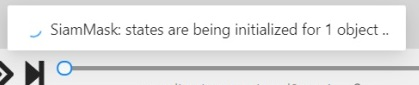
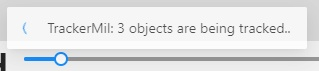
Update documentation. Update add OpenCV MIL tracker tool (#4299)
* update opencv-tools.md and ai-tools.md

* apply suggestions

diff --git a/site/content/en/docs/manual/advanced/opencv-tools.md b/site/content/en/docs/manual/advanced/opencv-tools.md
@@ -37,8 +37,8 @@ displayed as a red square which is tied to the cursor.
   Increasing action threshold will affect the performance.
   During the drawing process you can remove the last point by clicking on it with the left mouse button.
 
-- You can also create a boundary manually (like when 
-  [creating a polygon](/docs/manual/advanced/annotation-with-polygons/manual-drawing/)) by temporarily disabling 
+- You can also create a boundary manually (like when
+  [creating a polygon](/docs/manual/advanced/annotation-with-polygons/manual-drawing/)) by temporarily disabling
   the automatic line creation. To do that, switch blocking on by pressing `Ctrl`.
 
 - In the process of drawing, you can select the number of points in the polygon using the switch.
@@ -69,3 +69,30 @@ It is useful in images with backgrounds and foregrounds that are both bright or 
 
   ![](/images/image222.jpg)
 
+### TrackerMIL
+
+Trackers are used to automatically annotate an object on video.
+The TrackerMIL model is not bound to labels and can be used for any object.
+
+- Before you start, select the `OpenCV tools` on the controls sidebar and go to the `Trackers` tab.
+  Then select a `Label` and `Tracker` for the object and click `Track`. Then annotate the desired objects with the
+  bounding box in the first frame.
+
+  ![Start tracking an object](/images/image242.jpg)
+
+- All annotated objects will be automatically tracked when you move to the next frame.
+  For tracking, use `Next` button on the top panel or the `F` button to move on to the next frame.
+
+  ![Annotation using a tracker](/images/tracker_mil_detrac.gif)
+
+- You can enable/disable tracking using `tracker switcher` on sidebar.
+
+  ![Tracker switcher](/images/tracker_switcher.jpg)
+
+- Trackable objects have indication on canvas with a model indication.
+
+  ![Tracker indication](/images/tracker_indication_detrac.jpg)
+
+- You can follow the tracking by the messages appearing at the top.
+
+  ![Tracker pop-up window](/images/tracker_pop-up_window.jpg)

diff --git a/site/content/en/docs/manual/advanced/ai-tools.md b/site/content/en/docs/manual/advanced/ai-tools.md
@@ -124,7 +124,7 @@ Supported DL models are not bound to the label and can be used for any objects.
 - All annotated objects will be automatically tracked when you move to the next frame.
   For tracking, use `Next` button on the top panel or the `F` button to move on to the next frame.
 
-  ![Annotation using a tracker](/images/tracker_siammask_detrac.gif)
+  ![Annotation using a tracker](/images/tracker_mil_detrac.gif)
 
 - You can enable/disable tracking using `tracker switcher` on sidebar.
 
@@ -132,7 +132,7 @@ Supported DL models are not bound to the label and can be used for any objects.
 
 - Trackable objects have indication on canvas with a model indication.
 
-  ![Tracker indication](/images/tracker_indication.jpg)
+  ![Tracker indication](/images/tracker_indication_detrac.jpg)
 
 - You can monitoring the process by the messages appearing at the top.
   If you change one or more objects, before moving to the next frame, you will see a message that
@@ -146,3 +146,5 @@ Supported DL models are not bound to the label and can be used for any objects.
 Fast online Object Tracking and Segmentation. Tracker is able to track different objects in one server request.
 Trackable object will be tracked automatically if the previous frame was
 a latest keyframe for the object. Have tracker indication on canvas. `SiamMask` tracker supported CUDA.
+
+> If you plan to track simple non-overlapping objects consider using fast client-side [TrackerMIL from OpenCV](/docs/manual/advanced/opencv-tools/#trackermil).
